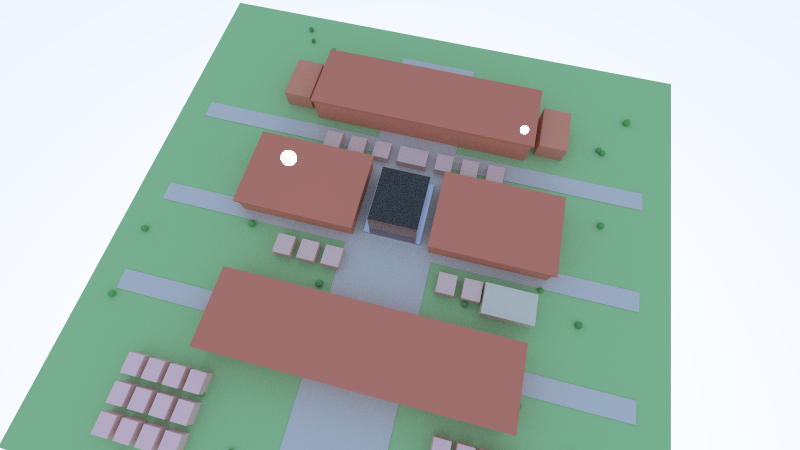
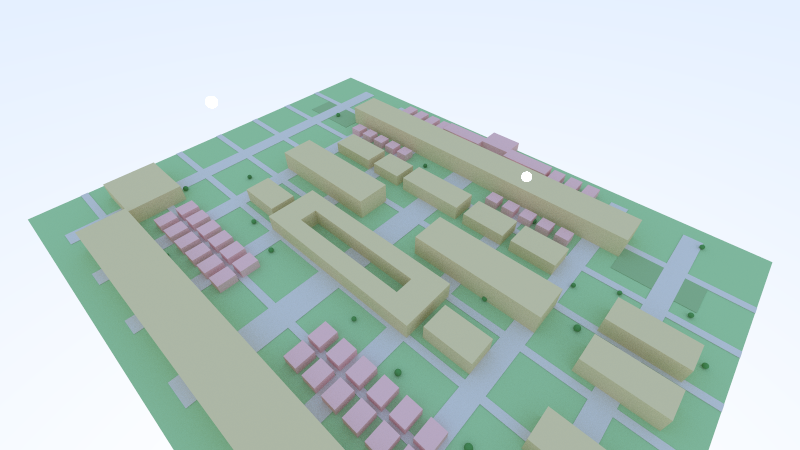
Redesign Innovation Harbor scene to match campus plan layout

diff --git a/scenes/showcase.py b/scenes/showcase.py
@@ -211,125 +211,129 @@ def scene_cornell_real():
 def scene_innovation_harbor():
     """
     场景7: 西安交通大学创新港微缩模型
-    参考创新港校区中轴线对称布局:
-    - 红棕色回字形教学楼 (力行楼/躬行楼)
-    - 中央玻璃建筑 (涵英楼)
-    - 北部大型教学楼 (泓理楼)
-    - 南部宿舍区
+    严格按照平面图 (../data/6.png) 布局:
+    - 扇形倒三角，北部宽南部窄
+    - 西迁大道中轴线
+    - 黄色=教学科研，粉色=宿舍，绿色=绿地
     """
-    r = TaichiRenderer(max_spheres=80, max_cubes=150, max_triangles=10)
+    r = TaichiRenderer(max_spheres=100, max_cubes=250, max_triangles=10)
     np.random.seed(2024)
 
-    # ========== 大地与道路 ==========
-    # 整个校园绿地
-    r.add_cube((-28, -0.5, -32), (28, 0, 22), MAT_LAMBERTIAN, (0.38, 0.62, 0.32))
-    # 中央景观大道 (灰色)
-    r.add_cube((-4.5, 0.01, -28), (4.5, 0.06, 18), MAT_LAMBERTIAN, (0.62, 0.60, 0.57))
-    # 横向道路 (北)
-    r.add_cube((-25, 0.01, -16), (25, 0.06, -14), MAT_LAMBERTIAN, (0.62, 0.60, 0.57))
-    # 横向道路 (中)
-    r.add_cube((-25, 0.01, -5), (25, 0.06, -3), MAT_LAMBERTIAN, (0.62, 0.60, 0.57))
-    # 横向道路 (南)
-    r.add_cube((-25, 0.01, 5), (25, 0.06, 7), MAT_LAMBERTIAN, (0.62, 0.60, 0.57))
+    C_YELLOW = (0.78, 0.68, 0.42)
+    C_PINK   = (0.88, 0.58, 0.58)
+    C_GREEN  = (0.42, 0.68, 0.38)
+    C_ROAD   = (0.72, 0.70, 0.67)
+    C_SPORT  = (0.35, 0.55, 0.30)
 
-    # ========== 北部 - 泓理楼区域 ==========
-    # 主楼体 (红棕色)
-    r.add_cube((-12, 0, -24), (12, 3.0, -17), MAT_LAMBERTIAN, (0.72, 0.30, 0.20))
-    # 屋顶 (深红色)
-    r.add_cube((-12.2, 3.0, -24.2), (12.2, 3.3, -16.8), MAT_LAMBERTIAN, (0.65, 0.25, 0.18))
-    # 两侧配楼
-    r.add_cube((-16, 0, -23), (-13, 2.0, -18), MAT_LAMBERTIAN, (0.70, 0.32, 0.22))
-    r.add_cube((13, 0, -23), (16, 2.0, -18), MAT_LAMBERTIAN, (0.70, 0.32, 0.22))
+    # ========== 大地 (绿地) ==========
+    r.add_cube((-32, -0.5, -28), (32, 0, 22), MAT_LAMBERTIAN, C_GREEN)
 
-    # ========== 中北部 - B区小建筑群 ==========
-    for i in range(4):
-        x = -10 + i * 2.8
-        r.add_cube((x, 0, -15), (x+1.8, 1.0, -13), MAT_LAMBERTIAN, (0.75, 0.55, 0.50))
-        r.add_cube((-x-1.8, 0, -15), (-x, 1.0, -13), MAT_LAMBERTIAN, (0.75, 0.55, 0.50))
+    # ========== 道路网格 ==========
+    # 纵向 - 西迁大道 (中央)
+    r.add_cube((-1.5, 0.01, -26), (1.5, 0.06, 20), MAT_LAMBERTIAN, C_ROAD)
+    # 纵向 - 西侧
+    r.add_cube((-10, 0.01, -26), (-8, 0.06, 20), MAT_LAMBERTIAN, C_ROAD)
+    r.add_cube((-18, 0.01, -26), (-16, 0.06, 20), MAT_LAMBERTIAN, C_ROAD)
+    r.add_cube((-26, 0.01, -26), (-24, 0.06, 20), MAT_LAMBERTIAN, C_ROAD)
+    # 纵向 - 东侧
+    r.add_cube((8, 0.01, -26), (10, 0.06, 20), MAT_LAMBERTIAN, C_ROAD)
+    r.add_cube((16, 0.01, -26), (18, 0.06, 20), MAT_LAMBERTIAN, C_ROAD)
+    r.add_cube((24, 0.01, -26), (26, 0.06, 20), MAT_LAMBERTIAN, C_ROAD)
+    # 横向
+    for z in [-20, -14, -8, -2, 4, 10, 16]:
+        r.add_cube((-32, 0.01, z-0.4), (32, 0.06, z+0.4), MAT_LAMBERTIAN, C_ROAD)
 
-    # ========== 中部 - 力行楼 & 躬行楼 (回字形对称) ==========
-    # 左侧回字形 - 躬行楼
-    # 上边
-    r.add_cube((-16, 0, -12), (-4, 2.2, -10), MAT_LAMBERTIAN, (0.72, 0.30, 0.20))
-    # 下边
-    r.add_cube((-16, 0, -6), (-4, 2.2, -4), MAT_LAMBERTIAN, (0.72, 0.30, 0.20))
-    # 左边
-    r.add_cube((-16, 0, -10), (-14, 2.2, -6), MAT_LAMBERTIAN, (0.72, 0.30, 0.20))
-    # 右边
-    r.add_cube((-6, 0, -10), (-4, 2.2, -6), MAT_LAMBERTIAN, (0.72, 0.30, 0.20))
-    # 屋顶
-    r.add_cube((-16.2, 2.2, -12.2), (-3.8, 2.5, -3.8), MAT_LAMBERTIAN, (0.65, 0.25, 0.18))
+    # ========== 最北部 - 泓理楼 ==========
+    r.add_cube((-22, 0, 14), (22, 2.5, 19), MAT_LAMBERTIAN, C_YELLOW)
 
-    # 右侧回字形 - 力行楼
-    r.add_cube((4, 0, -12), (16, 2.2, -10), MAT_LAMBERTIAN, (0.72, 0.30, 0.20))
-    r.add_cube((4, 0, -6), (16, 2.2, -4), MAT_LAMBERTIAN, (0.72, 0.30, 0.20))
-    r.add_cube((4, 0, -10), (6, 2.2, -6), MAT_LAMBERTIAN, (0.72, 0.30, 0.20))
-    r.add_cube((14, 0, -10), (16, 2.2, -6), MAT_LAMBERTIAN, (0.72, 0.30, 0.20))
-    r.add_cube((3.8, 2.2, -12.2), (16.2, 2.5, -3.8), MAT_LAMBERTIAN, (0.65, 0.25, 0.18))
+    # ========== B区宿舍 (粉色，泓理楼下方) ==========
+    for i in range(6):
+        x = -20 + i*2.4
+        r.add_cube((x, 0, 8), (x+1.6, 1.0, 10), MAT_LAMBERTIAN, C_PINK)
+        r.add_cube((x, 0, 10.5), (x+1.6, 1.0, 12.5), MAT_LAMBERTIAN, C_PINK)
+    for i in range(6):
+        x = 4 + i*2.4
+        r.add_cube((x, 0, 8), (x+1.6, 1.0, 10), MAT_LAMBERTIAN, C_PINK)
+        r.add_cube((x, 0, 10.5), (x+1.6, 1.0, 12.5), MAT_LAMBERTIAN, C_PINK)
 
-    # 中央 - 涵英楼 (蓝色玻璃建筑)
-    r.add_cube((-2.5, 0, -11), (2.5, 2.8, -5), MAT_DIELECTRIC, ir=1.5)
-    # 玻璃底座
-    r.add_cube((-3.0, 0, -11.5), (3.0, 0.3, -4.5), MAT_METAL, (0.5, 0.5, 0.55), fuzz=0.1)
+    # ========== 涵英楼 (U形，黄色) + 通英楼 ==========
+    r.add_cube((-10, 0, 2), (10, 2.0, 4), MAT_LAMBERTIAN, C_YELLOW)
+    r.add_cube((-10, 0, -2), (10, 2.0, 0), MAT_LAMBERTIAN, C_YELLOW)
+    r.add_cube((-10, 0, -2), (-7, 2.0, 4), MAT_LAMBERTIAN, C_YELLOW)
+    r.add_cube((7, 0, -2), (10, 2.0, 4), MAT_LAMBERTIAN, C_YELLOW)
+    r.add_cube((-16, 0, 0), (-11, 1.8, 3), MAT_LAMBERTIAN, C_YELLOW)
+    r.add_cube((11, 0, 0), (16, 1.8, 3), MAT_LAMBERTIAN, C_YELLOW)
 
-    # ========== 中南部 - C区 + 阅览中心 ==========
-    # 左侧C区
-    for i in range(3):
-        x = -11 + i * 2.5
-        r.add_cube((x, 0, -2), (x+1.8, 1.2, 0), MAT_LAMBERTIAN, (0.78, 0.58, 0.52))
-    # 右侧C区
-    for i in range(3):
-        x = 5.5 + i * 2.5
-        r.add_cube((x, 0, -2), (x+1.8, 1.2, 0), MAT_LAMBERTIAN, (0.78, 0.58, 0.52))
-    # 阅览中心 (东)
-    r.add_cube((10, 0, -2), (15, 1.5, 1), MAT_LAMBERTIAN, (0.70, 0.65, 0.55))
+    # ========== 躬行楼(西) & 力行楼(东) ==========
+    r.add_cube((-18, 0, -8), (-4, 2.5, -4), MAT_LAMBERTIAN, C_YELLOW)
+    r.add_cube((4, 0, -8), (18, 2.5, -4), MAT_LAMBERTIAN, C_YELLOW)
+
+    # ========== 中下部 - 米兰楼/思源楼/博物馆/阅览中心/C区 ==========
+    r.add_cube((-16, 0, -14), (-10, 1.5, -11), MAT_LAMBERTIAN, C_YELLOW)
+    r.add_cube((-9, 0, -14), (-5, 1.5, -11), MAT_LAMBERTIAN, C_YELLOW)
+    r.add_cube((-4, 0, -14), (4, 1.8, -11), MAT_LAMBERTIAN, C_YELLOW)
+    r.add_cube((5, 0, -14), (10, 1.5, -11), MAT_LAMBERTIAN, C_YELLOW)
+    r.add_cube((11, 0, -14), (16, 1.5, -11), MAT_LAMBERTIAN, C_YELLOW)
+    for i in range(5):
+        x = -18 + i*2.2
+        r.add_cube((x, 0, -17), (x+1.5, 1.0, -15.5), MAT_LAMBERTIAN, C_PINK)
+    for i in range(5):
+        x = 5 + i*2.2
+        r.add_cube((x, 0, -17), (x+1.5, 1.0, -15.5), MAT_LAMBERTIAN, C_PINK)
 
     # ========== 南部 - 敏行楼 ==========
-    r.add_cube((-14, 0, 3), (14, 2.5, 10), MAT_LAMBERTIAN, (0.72, 0.30, 0.20))
-    r.add_cube((-14.2, 2.5, 2.8), (14.2, 2.8, 10.2), MAT_LAMBERTIAN, (0.65, 0.25, 0.18))
+    r.add_cube((-20, 0, -22), (20, 2.5, -18), MAT_LAMBERTIAN, C_YELLOW)
 
-    # ========== 最南部 - 学生宿舍区 ==========
-    # 左侧宿舍 (Y形简化 - 用3个立方体)
-    for row in range(3):
-        z = 12 + row * 2.5
-        for col in range(4):
-            x = -20 + col * 2.0
-            r.add_cube((x, 0, z), (x+1.5, 1.3, z+1.8), MAT_LAMBERTIAN, (0.85, 0.60, 0.58))
-    # 右侧宿舍
-    for row in range(3):
-        z = 12 + row * 2.5
-        for col in range(4):
-            x = 8 + col * 2.0
-            r.add_cube((x, 0, z), (x+1.5, 1.3, z+1.8), MAT_LAMBERTIAN, (0.85, 0.60, 0.58))
+    # ========== A区宿舍 (粉色) ==========
+    for i in range(5):
+        x = -16 + i*2.2
+        r.add_cube((x, 0, -26), (x+1.5, 1.0, -24), MAT_LAMBERTIAN, C_PINK)
+    for i in range(5):
+        x = 4 + i*2.2
+        r.add_cube((x, 0, -26), (x+1.5, 1.0, -24), MAT_LAMBERTIAN, C_PINK)
 
-    # ========== 绿化 - 树木 (绿色小球) ==========
-    for _ in range(60):
-        x = np.random.uniform(-26, 26)
-        z = np.random.uniform(-30, 20)
-        # 避开道路和建筑区域 (粗略)
-        if abs(x) < 5.5 and -28 < z < 18:  # 中央大道
+    # ========== 最南部 - Y形宿舍 ==========
+    r.add_cube((-2, 0, -28), (2, 1.2, -25), MAT_LAMBERTIAN, C_PINK)
+    r.add_cube((-8, 0, -26), (-2, 1.2, -24), MAT_LAMBERTIAN, C_PINK)
+    r.add_cube((2, 0, -26), (8, 1.2, -24), MAT_LAMBERTIAN, C_PINK)
+    r.add_cube((-6, 0, -24), (-3, 1.0, -22), MAT_LAMBERTIAN, C_PINK)
+    r.add_cube((3, 0, -24), (6, 1.0, -22), MAT_LAMBERTIAN, C_PINK)
+
+    # ========== 东侧建筑群 ==========
+    r.add_cube((22, 0, -6), (29, 2.0, -3), MAT_LAMBERTIAN, C_YELLOW)
+    r.add_cube((22, 0, -11), (29, 2.0, -8), MAT_LAMBERTIAN, C_YELLOW)
+    r.add_cube((22, 0, 2), (29, 2.0, 5), MAT_LAMBERTIAN, C_YELLOW)
+    r.add_cube((22, 0, 8), (29, 2.0, 12), MAT_LAMBERTIAN, C_YELLOW)
+
+    # ========== 西侧 - 核能研究院 ==========
+    r.add_cube((-29, 0, 8), (-22, 2.0, 14), MAT_LAMBERTIAN, C_YELLOW)
+
+    # ========== 运动场地 ==========
+    r.add_cube((20, 0.01, -20), (28, 0.05, -16), MAT_LAMBERTIAN, C_SPORT)
+    r.add_cube((-28, 0.01, -20), (-20, 0.05, -16), MAT_LAMBERTIAN, C_SPORT)
+
+    # ========== 树木 ==========
+    for _ in range(100):
+        x = np.random.uniform(-30, 30)
+        z = np.random.uniform(-27, 20)
+        road_skip = False
+        for rz in [-20, -14, -8, -2, 4, 10, 16]:
+            if abs(z - rz) < 0.6:
+                road_skip = True; break
+        for rx in [-26, -18, -10, -1.5, 1.5, 8, 16, 24]:
+            if abs(x - rx) < 1.8:
+                road_skip = True; break
+        if road_skip:
             continue
-        if -5 < z < -3 or -16 < z < -14 or 5 < z < 7:  # 横向道路
-            continue
-        if -12 < x < 12 and -24 < z < -17:  # 泓理楼
-            continue
-        if -16 < x < -4 and -12 < z < -4:  # 躬行楼
-            continue
-        if 4 < x < 16 and -12 < z < -4:  # 力行楼
-            continue
-        if -14 < x < 14 and 3 < z < 10:  # 敏行楼
-            continue
-        r.add_sphere((x, 0.25, z), np.random.uniform(0.2, 0.4),
-                     MAT_LAMBERTIAN, (0.15, 0.40 + np.random.random()*0.15, 0.15))
+        r.add_sphere((x, 0.25, z), np.random.uniform(0.2, 0.35),
+                     MAT_LAMBERTIAN, (0.12, 0.38, 0.12))
 
     # ========== 光源 ==========
-    # 主光源 (模拟阳光)
-    r.add_light((-8, 12, -5), 0.6, (6.0, 5.5, 4.5))
-    # 辅助光源
-    r.add_light((10, 8, -15), 0.4, (4.0, 4.0, 5.0))
+    r.add_light((-12, 15, 5), 0.5, (5.5, 5.0, 4.0))
+    r.add_light((12, 12, -8), 0.4, (4.0, 4.0, 5.0))
 
-    # ========== 相机 - 鸟瞰航拍视角 (更高更俯) ==========
-    r.set_camera((3, 32, 12), (0, -4, -8), (0, 1, 0), 58, 16.0/9.0, 0.0)
+    # ========== 相机 - 45度沙盘视角 ==========
+    r.set_camera((22, 32, 18), (0, 0, -6), (0, 1, 0), 58, 16.0/9.0, 0.0)
     return r, "showcase_07_innovation_harbor"
 
 